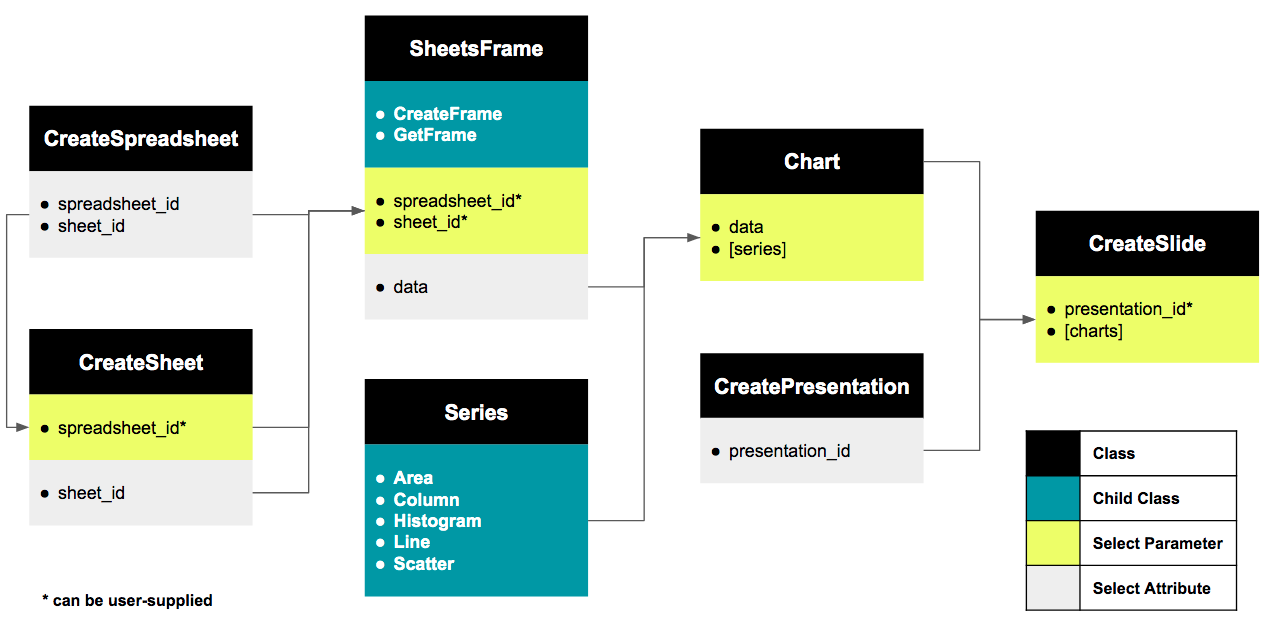
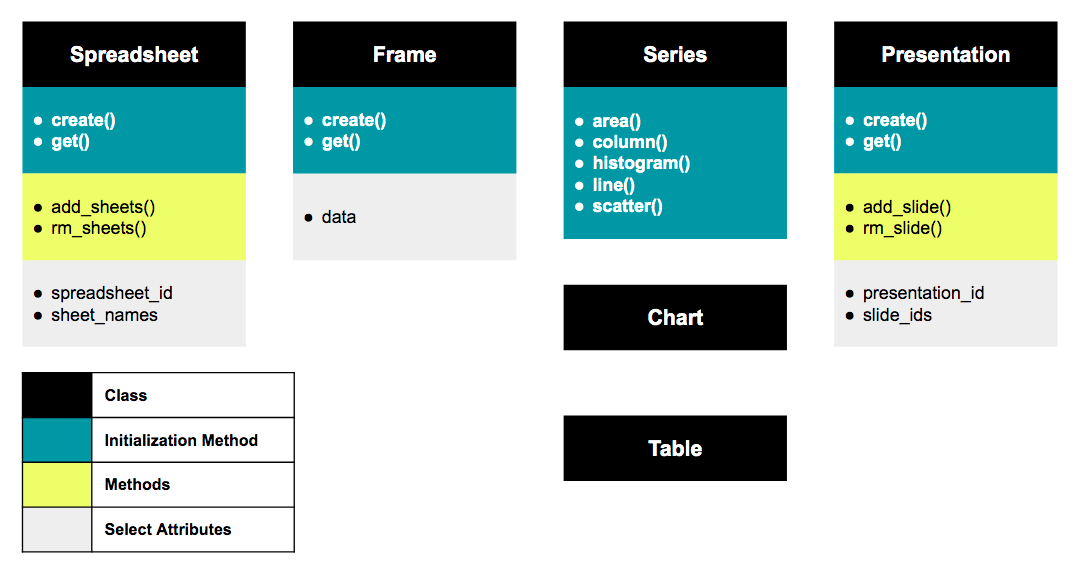
update docs

diff --git a/docs/basic.rst b/docs/basic.rst
@@ -1,18 +1,18 @@
 Basic Usage
 =========================================
 
-The following page will provide an understanding around the class structure for ``gslides``. To accompany this documentation, see an example of the usage of ``gslides`` in this `notebook <https://github.com/michael-gracie/gslides/blob/poc/notebooks/usage.ipynb>`_.
+The following page will provide an understanding around the class structure for ``gslides``. To accompany this documentation, see an example of the usage of ``gslides`` in this `notebook <https://github.com/michael-gracie/gslides/blob/main/notebooks/usage.ipynb>`_.
 
 Data Flow
 ----------------------------------------
 
 Taking an object oriented approach, ``gslides`` provides classes that represent objects in either Google sheets or Google slides to enable the user flexibility in terms of how there are creating their pipeline and executing their dependencies.
 
-The diagram below shows how data flows through the pipeline.
+The diagram provides a visual representation of the objects and methods available.
 
 .. image:: img/uml.png
 
-The modularization of the pipeline allows the user to create new spreadsheets, sheets and presentations or simply use existing sheets and presentations. Additionally, if the user wants to only use a portion of the pipeline they can choose so.
+The modularization of the pipeline allows the user to create new spreadsheets, sheets and presentations or simply get existing sheets and presentations. Additionally, if the user wants to only use a portion of the pipeline they can choose so.
 
 User supplied ID's
 ------------------------------------------
@@ -21,15 +21,15 @@ From existing spreadsheets and presentations it is possible to retrieve ``spread
 
 .. image:: img/user_id.png
 
-Executing classes
+Initializing classes
 ------------------------------------------
 
-Each class, except the ``series`` class, have their own ``execute()`` method. The ``execute`` method will call the Google API to complete a given action. The attributes that are generated by Google through the ``execute`` method are ``spreadsheet_id``, ``sheet_id`` and ``presentation_id``. These parameters and ``data`` cannot be passed to other objects unless the ``execute`` method has ran.
+The ``Spreadsheet``, ``Frame`` and ``Presentation`` objects are all initialized through either the ``create()`` or ``get()`` class method.
 
-Passing ``Chart`` objects to ``CreateSlide``
-^^^^^^^^^^^^^^^^^^^^^^^^^^^^^^^^^^^^^^^^^^^^^
+Passing ``Chart`` and ``Table`` objects to ``Presentation.add_slide()``
+^^^^^^^^^^^^^^^^^^^^^^^^^^^^^^^^^^^^^^^^^^^^^^^^^^^^^^^^^^^^^^^^^^^^^^^^
 
-The ``Chart`` class is unique in the fact that it doesn't need to be executed to be passed to the ``CreateSlide`` object. The layout and slide margin parameters set in the ``CreateSlide`` class will optimize the size of the ``Chart`` objects that are to be created. For this reason, the ``execute`` method of ``CreateSlide`` both execute the chart creation in Google sheets, the creation of the slide and the copy of those charts.
+The ``Chart`` and ``Table`` objects are unique in the fact that they don't need to be created to be passed to the ``Presentation.add_slide()`` method. The layout and slide margin parameters set in the ``Presentation.add_slide()`` method will optimize the size of the ``Chart`` and ``Table`` objects that are to be created. The ``Presentation.add_slide()`` method handles both the creation of the objects, creation of the slide and the copy of the objects all in one.
 
 .. note::
-   There is no restriction on utilizing the ``execute`` method of the ``Chart`` class. It will simply create a chart in Google sheets without optimizing the sizing of that chart for it's destination slide.
+   There is no restriction on utilizing the ``create()`` method of the ``Chart`` and ``Table`` classes. For ``Chart``, the method will simply create a chart in Google sheets without optimizing the sizing of that chart for it's destination slide. For ``Table`` it will create a table in Google slides.

diff --git a/README.rst b/README.rst
@@ -24,12 +24,11 @@ Below is an example that only showcases a simple workflow. Full discussion aroun
 
   import gslides
   from gslides import (
-    CreatePresentation,
-    CreateSpreadsheet,
-    CreateFrame,
-    Chart,
-    Scatter,
-    CreateSlide
+      Frame,
+      Presentation,
+      Spreadsheet,
+      Table,
+      Series, Chart
   )
   from sklearn import datasets
   gslides.intialize_credentials(creds) #BringYourOwnCredentials
@@ -39,60 +38,64 @@ Below is an example that only showcases a simple workflow. Full discussion aroun
 
 .. code-block:: python
 
-  prs = CreatePresentation(name = 'demo pres')
-  prs.execute()
-
+  prs = Presentation.create(name = 'demo pres')
 
 **3. Create a spreadsheet**
 
 .. code-block:: python
 
-  spreadsheet = CreateSpreadsheet(
-    title = 'demo spreadsheet',
-    sheet_name = 'demo sheet')
-  spreadsheet.execute()
+  spr = Spreadsheet.create(
+      title = 'demo spreadsheet',
+      sheet_names = ['demo sheet']
+  )
 
 **4. Load the data to the spreadsheet**
 
 .. code-block:: python
 
-  iris = datasets.load_iris(as_frame = True)['data']
-  frame = CreateFrame(df = iris,
-              spreadsheet_id = spreadsheet.spreadsheet_id,
-              sheet_id = spreadsheet.sheet_id,
-              overwrite_data = True
-              )
-  frame.execute()
+  plt_df = #Iris data
+  frame = Frame.create(df = plt_df,
+            spreadsheet_id = spr.spreadsheet_id,
+            sheet_id = spr.sheet_names['demo sheet'],
+            sheet_name = 'demo sheet',
+            overwrite_data = True
+  )
 
 **5. Create a scatterplot**
 
 .. code-block:: python
 
-  sc = Scatter(y_columns = ['sepal width (cm)'])
+  sc = Series.scatter(series_columns = target_names)
   ch = Chart(
       data = frame.data,
-      x_column = 'sepal length (cm)',
+      x_axis_column = 'sepal length (cm)',
       series = [sc],
       title = f'Demo Chart',
       x_axis_label = 'Sepal Length',
-      y_axis_label = 'Sepal Width',
-      legend_position = 'NO_LEGEND',
+      y_axis_label = 'Petal Width',
+      legend_position = 'RIGHT_LEGEND',
   )
 
-**6. Create a slide with the scatterplot**
+**6. Create a table**
 
 .. code-block:: python
 
-  sld = CreateSlide(
-      presentation_id = prs.presentation_id,
-      charts = [ch],
-      layout = (1,1),
-      title = "Investigation into Fischer's Iris dataset",
-      notes = "Data from 1936"
+  tbl = Table(
+      data = plt_df.head()
   )
-  sld.execute()
 
-**7. Navigate to the presentation**
+**7. Create a slide with the scatterplot**
+
+.. code-block:: python
+
+  prs.add_slide(
+    objects = [ch, tbl],
+    layout = (1,2),
+    title = "Investigation into Fischer's Iris dataset",
+    notes = "Data from 1936"
+  )
+
+**8. Navigate to the presentation**
 
 .. image:: img/usage.png
 

diff --git a/docs/byoc.rst b/docs/byoc.rst
@@ -19,17 +19,14 @@ You'll need enable a google developer account to access the Google Cloud Platfor
 
 **2. Create credentials**
 
-Again consult Google and follow this `guide <https://developers.google.com/workspace/guides/create-credentials#configure_the_oauth_consent_screen>`_ to configure the OAuth consent screen.
+Consult Google and follow this `guide <https://developers.google.com/workspace/guides/create-credentials#configure_the_oauth_consent_screen>`_ to configure the OAuth consent screen. This is the screen that will appear when you attempt to use your credentials to retrieve a token.
 
-And create your credentials from the instructions `here <https://developers.google.com/workspace/guides/create-credentials#create_a_credential>`_. You'll need to download the credentials ``.json`` file onto your local. *Be sure not share these credentials with anyone, the file should not be shared on Github*.
+Next, create your credentials from the instructions `here <https://developers.google.com/workspace/guides/create-credentials#create_a_credential>`_. For simplicity, create a desktop application. Once finished, you'll need to download the credentials ``.json`` file onto your local.
 
-**3. Update the URIs**
+.. warning::
+  Be sure not share your credentials with anyone. The file should not be pushed to Github.
 
-The URI are the endpoints where the OAuth 2.0 server can send responses. In this case because we are utilizing a jupyter notebook we must allow responses to ``localhost``. Update the values like so, selecting a port which you are going to use.
-
-.. image:: img/uri.png
-
-**4. Launch a Jupyter notebook, get the token and load credentials**
+**3. Launch a Jupyter notebook, get the token and load credentials**
 
 Run the code below, replacing the necessary values to obtain the ``creds`` object. These are the credentials you pass to ``gslides``.
 
@@ -58,12 +55,14 @@ Run the code below, replacing the necessary values to obtain the ``creds`` objec
       else:
           flow = InstalledAppFlow.from_client_secrets_file(
               '<PATH_TO_CREDS>', SCOPES)
-          creds = flow.run_local_server(port=<PORT>)
+          creds = flow.run_local_server()
       # Save the credentials for the next run
       with open('token.json', 'w') as token:
           token.write(creds.to_json())
 
-**5. Initialize the credentials with gslides**
+The first time you run this block, you will be prompted to allow access to Google slides & sheets through your Google account.
+
+**4. Initialize the credentials with gslides**
 
 .. code-block:: python
 

diff --git a/docs/chart.rst b/docs/chart.rst
@@ -28,14 +28,14 @@ Needs to be manipulated like so:
 
 This can be done through `df.pivot() <https://pandas.pydata.org/docs/reference/api/pandas.DataFrame.pivot.html>`_.
 
-Utilizing the ``y_columns`` parameter
+Utilizing the ``series_columns`` parameter
 ------------------------------------------
 
 Each series in a chart can be formatted in a unique way. For this reason, users are able to pass multiple ``Series`` objects into a ``Chart`` object such that they have full control over the display for a given chart. In fact, it is possible to pass different ``Series`` types into the same chart.
 
-- If ``y_columns`` is ``None`` or ``[]``, the chart will plot all columns in the ``SheetFrame`` except the ``x_column``.
+- If ``series_columns`` is ``None`` or ``[]``, the chart will plot all columns in the ``Frame`` object except the ``x_column``.
 - If different ``Series`` types are passed into the same chart, the chart is considered a ``COMBO`` chart. Only combinations of ``Area``, ``Columns`` and ``Line`` series are allowed.
-- If the same ``y_column`` is set in multiple ``Series`` objects, the latter most configuration of that column will be used.
+- If the same ``series_column`` is set in multiple ``Series`` objects, the latter most configuration of that column will be used.
 
 This provides great flexibility. A common pattern is to set all columns to a base configuration by passing ``None``. Then, creating another ``Series`` object to override that configuration for a single column to set an alternative color or style, highlighting that particular series.
 
@@ -47,7 +47,7 @@ Various parameters can be set based on the type of series.
 .. csv-table::
    :header: "Parameter", "Line", "Area", "Column", "Scatter", "Histogram"
 
-   "y_columns","Y","Y","Y","Y","Y"
+   "series_columns","Y","Y","Y","Y","Y"
    "line_style","Y","Y",,,
    "line_width","Y","Y",,,
    "point_enabled","Y","Y",,,
@@ -77,4 +77,4 @@ See the ``CHART_PARAMS`` dictionary for valid stacking types.
 Histogram
 ------------------------------------------
 
-Histograms are unique in that Google will perform the bucketing of values before plotting. In this way ``x_column`` for Histogram charts can simply be set to a dummy string.
+Histograms are unique in that Google will perform the bucketing of values before plotting. In this way ``x_axis_column`` for Histogram charts can simply be set to a dummy string.

diff --git a/docs/gslides.rst b/docs/gslides.rst
@@ -4,10 +4,10 @@ gslides package
 Submodules
 ----------
 
-gslides.addchart module
+gslides.chart module
 ------------------------
 
-.. automodule:: gslides.addchart
+.. automodule:: gslides.chart
    :members:
    :undoc-members:
    :show-inheritance:
@@ -28,30 +28,37 @@ gslides.config module
    :undoc-members:
    :show-inheritance:
 
-gslides.sheetsframe module
---------------------------
-
-.. automodule:: gslides.sheetsframe
-   :members:
-   :undoc-members:
-   :show-inheritance:
-
-gslides.slides module
--------------------------
-
-.. automodule:: gslides.slides
-   :members:
-   :undoc-members:
-   :show-inheritance:
-
 gslides.utils module
-------------------------
+--------------------------
 
 .. automodule:: gslides.utils
    :members:
    :undoc-members:
    :show-inheritance:
 
+gslides.frame module
+-------------------------
+
+.. automodule:: gslides.frame
+   :members:
+   :undoc-members:
+   :show-inheritance:
+
+gslides.presentation module
+---------------------------
+
+.. automodule:: gslides.presentation
+   :members:
+   :undoc-members:
+   :show-inheritance:
+
+gslides.table module
+------------------------
+
+.. automodule:: gslides.table
+  :members:
+  :undoc-members:
+  :show-inheritance:
 
 Module contents
 ---------------

diff --git a/docs/styling.rst b/docs/styling.rst
@@ -1,0 +1,22 @@
+Styling
+=========================================
+
+Setting font & palette
+--------------------------------
+It is possible to configure the font and palette at the package level. When one sets these configurations all future slides, chart and tables will inherit the set styling. To do so run the following
+
+.. code-block:: python
+
+  gslides.set_font('Arial')
+  gslides.set_palette('black')
+
+
+Available palettes
+------------------------------
+
+Check out `here <https://github.com/michael-gracie/gslides/blob/main/gslides/config/base_palettes.yaml>`_ for a ``yaml`` file containing the available palettes. If you wish to add a palette feel free to make a PR on the repo.
+
+Using custom palettes
+---------------------------------
+
+Users can load custom palettes by creating the following file ``~/.gslides/custom_palettes.yaml``. The file should be formatted the same as `this <https://github.com/michael-gracie/gslides/blob/main/gslides/config/base_palettes.yaml>`_ config file. The colors can be listed by either `name <https://github.com/michael-gracie/gslides/blob/main/gslides/config/color_mapping.yaml>`_ or hex color code.

diff --git a/docs/table.rst b/docs/table.rst
@@ -1,0 +1,26 @@
+Tables
+=========================================
+
+With ``gslides`` it's possible to take either existing data in Google sheets or a pandas ``DataFrame`` and visualize it in Google slides.
+
+Styling
+-----------------------------------------
+
+The package allows the user to style the header row background and the stub column background as well.
+
+.. image:: img/table.png
+
+To enable a background on the stub column and header row while setting the color find the following parameters below and their corresponding default configurations.
+
+.. code-block::
+
+  header = True
+  stub = False
+  header_background_color = "black"
+  stub_background_color= "black"
+
+
+Sizing
+----------------------------------------
+
+Sizing is particularly difficult with tables and one needs to be thoughtful about the number of rows and width of columns that will be created. If the Google API returns an error around the minimum row / column width you can either reduce amount of data you are attempting to capture in the table or change the ``font_size`` setting.

diff --git a/docs/index.rst b/docs/index.rst
@@ -10,6 +10,8 @@ Welcome to gslides's documentation!
    Bring Your Own Credentials <byoc>
    Basic Usage <basic>
    Chart <chart>
+   Tables <table>
+   Styling <styling>
    API Reference <modules>
 
 Indices and tables
